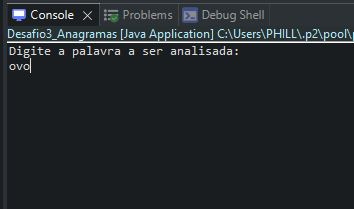
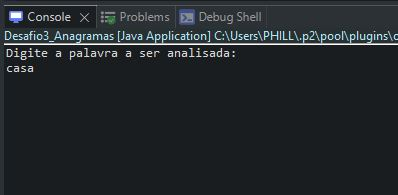
ReadME Questão 3

Changed region(s): [[0.0, 0.0, 1.0, 0.3692]]

diff --git a/README.md b/README.md
@@ -41,7 +41,7 @@
     <li>Na classe, clicar com o botão direito e ir ate a opção "Run As"e selecionar a opção "Java Application":</li>
     <img aling="center" src="assets/run_as.JPG">
     <li>No console, irá aparecer o texto "Digite a palavra a ser analisada:", abaixo do texto colocar a palavra para análise e apertar "Enter":</li>
-    <img aling="center" src="assets/exemplo_Senha.JPG">
+    <img aling="center" src="assets/exemplo_Anagrama.JPG">
     <li>Caso a palavra possua anagramas, o console irá retorna a quantidade de anagramas presentes:</li>
     <img aling="center" src="assets/resposta_ComAnagrama.JPG">
     <li>Caso a palavra não tenha anagramas, o console retornará zero:</li>
